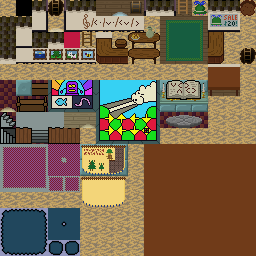
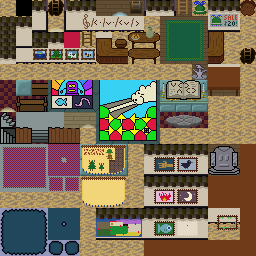
more details for library and school

Changed region(s): [[0.375, 0.5625, 0.9375, 0.9375], [0.75, 0.25, 0.8125, 0.3125]]

diff --git a/src/app/sprite/types/fmn_sprite_raccoon.c b/src/app/sprite/types/fmn_sprite_raccoon.c
@@ -19,6 +19,7 @@
 #define dstx sprite->fv[1]
 #define dsty sprite->fv[2]
 #define panic_clock sprite->fv[3]
+#define neuter sprite->argv[0]
 
 // Keep (w,e) symmetric, or account for xform at RACCOON_SET_HITBOX
 #define RACCOON_HBW_UPRIGHT 0.5f
@@ -150,7 +151,7 @@ static void raccoon_update_WAIT(struct fmn_sprite *sprite,float elapsed) {
   if (animclock>=1.5f) {
     // If enchanted, we don't throw things at our true love the witch. Just start walking again.
     // Same deal if she's invisible, albeit not due to good intentions.
-    if (enchanted||(fmn_global.invisibility_time>0.0f)) {
+    if (enchanted||(fmn_global.invisibility_time>0.0f)||neuter) {
       stage=RACCOON_STAGE_CHOOSE_DESTINATION;
       animclock=0.0f;
     } else {

diff --git a/README.md b/README.md
@@ -28,11 +28,11 @@ x Need a beach sign from the third screen, otherwise one assumes you're supposed
 - - [x] Song tutorials in the village: Show ghost notes, if you stand in the right place.
 - - [x] Orphans.
 - - [x] Purchase hat.
-- - [ ] Library: 1f=3 alphablock books. 2f=chalk HAND/BIRD FIRE/MOON. (current spell books are placeholders; remove)
-- - [ ] Library: World map.
-- - [ ] Magic school 1f: Charm challenge. Make a racoon walk thru fire to open the door.
-- - [ ] Magic school 2f: Spell books Slowmo and Rain (two you would already know by this point). Ladder up guarded by a mu block.
-- - [ ] Magic school 3f: Spell books Invisibility and Opening. Both critical, and both only taught here.
+- - [x] Library: 1f=3 alphablock books. 2f=chalk HAND/BIRD FIRE/MOON. (current spell books are placeholders; remove)
+- - [x] Library: World map.
+- - [x] Magic school 1f: Charm challenge. Make a racoon walk thru fire to open the door.
+- - [x] Magic school 2f: Spell books Slowmo and Rain (two you would already know by this point). Ladder up guarded by a mu block.
+- - [ ] Magic school 3f: Spell books Invisibility and Opening. Both critical, and both only taught here. --teacher, not book, for invisibility
 - - [ ] Dept of Agriculture: Plainly readable help: Water=>Seed, Milk=>Cheese, Sap=>Match, Honey=>Coin, Song of Blooming, Rain Spell. (none of this is unique)
 - - [ ] Dept of Agriculture basement: Guide to killing werewolfs?
 - [x] Mountains.
